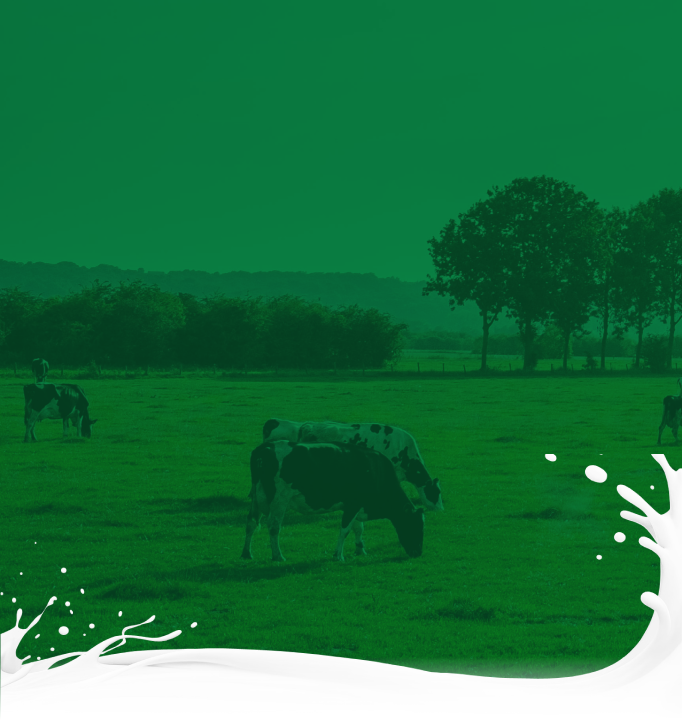
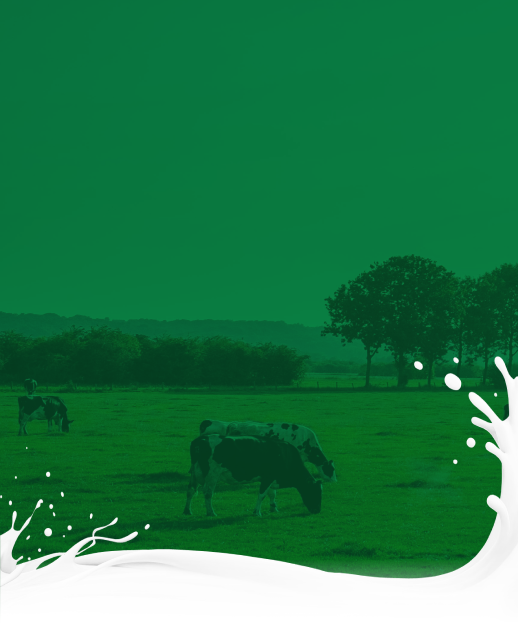
fixed photo issues

diff --git a/src/styles/Nav.css b/src/styles/Nav.css
@@ -34,7 +34,7 @@
 @media (max-width: 420px){
 
     .nav{
-        height: 80%;
+        height: 70%;
         background-image: url('../assets/landimgsm.png');
     }
 
